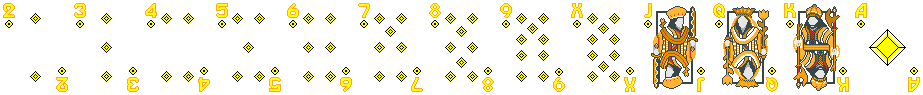
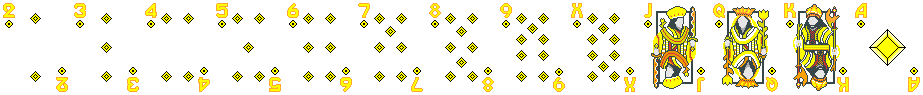
Recolored face cards and bump to v0.1.4b

diff --git a/README.md b/README.md
@@ -29,7 +29,7 @@ Bejeweled-themed deck skin and SFXs for Balatro
 ***A: Bejeweled 3 might have the [answer](https://bejeweled.fandom.com/wiki/Poker_(game_mode)) ;)***
 
 *Q: Face cards when?*  
-***A: As of v0.1.2, work on the face cards has begun, for now, it's only the letters and suit icons***
+***A: As of v0.1.4b, face cards has been recolored to follow Balajeweled suit colors.***
 
 *Q: When new update?*  
 ***A: Please keep in mind that this is a pass time project, I work on Balajeweled when I have some time to spare, so please be patient.***
